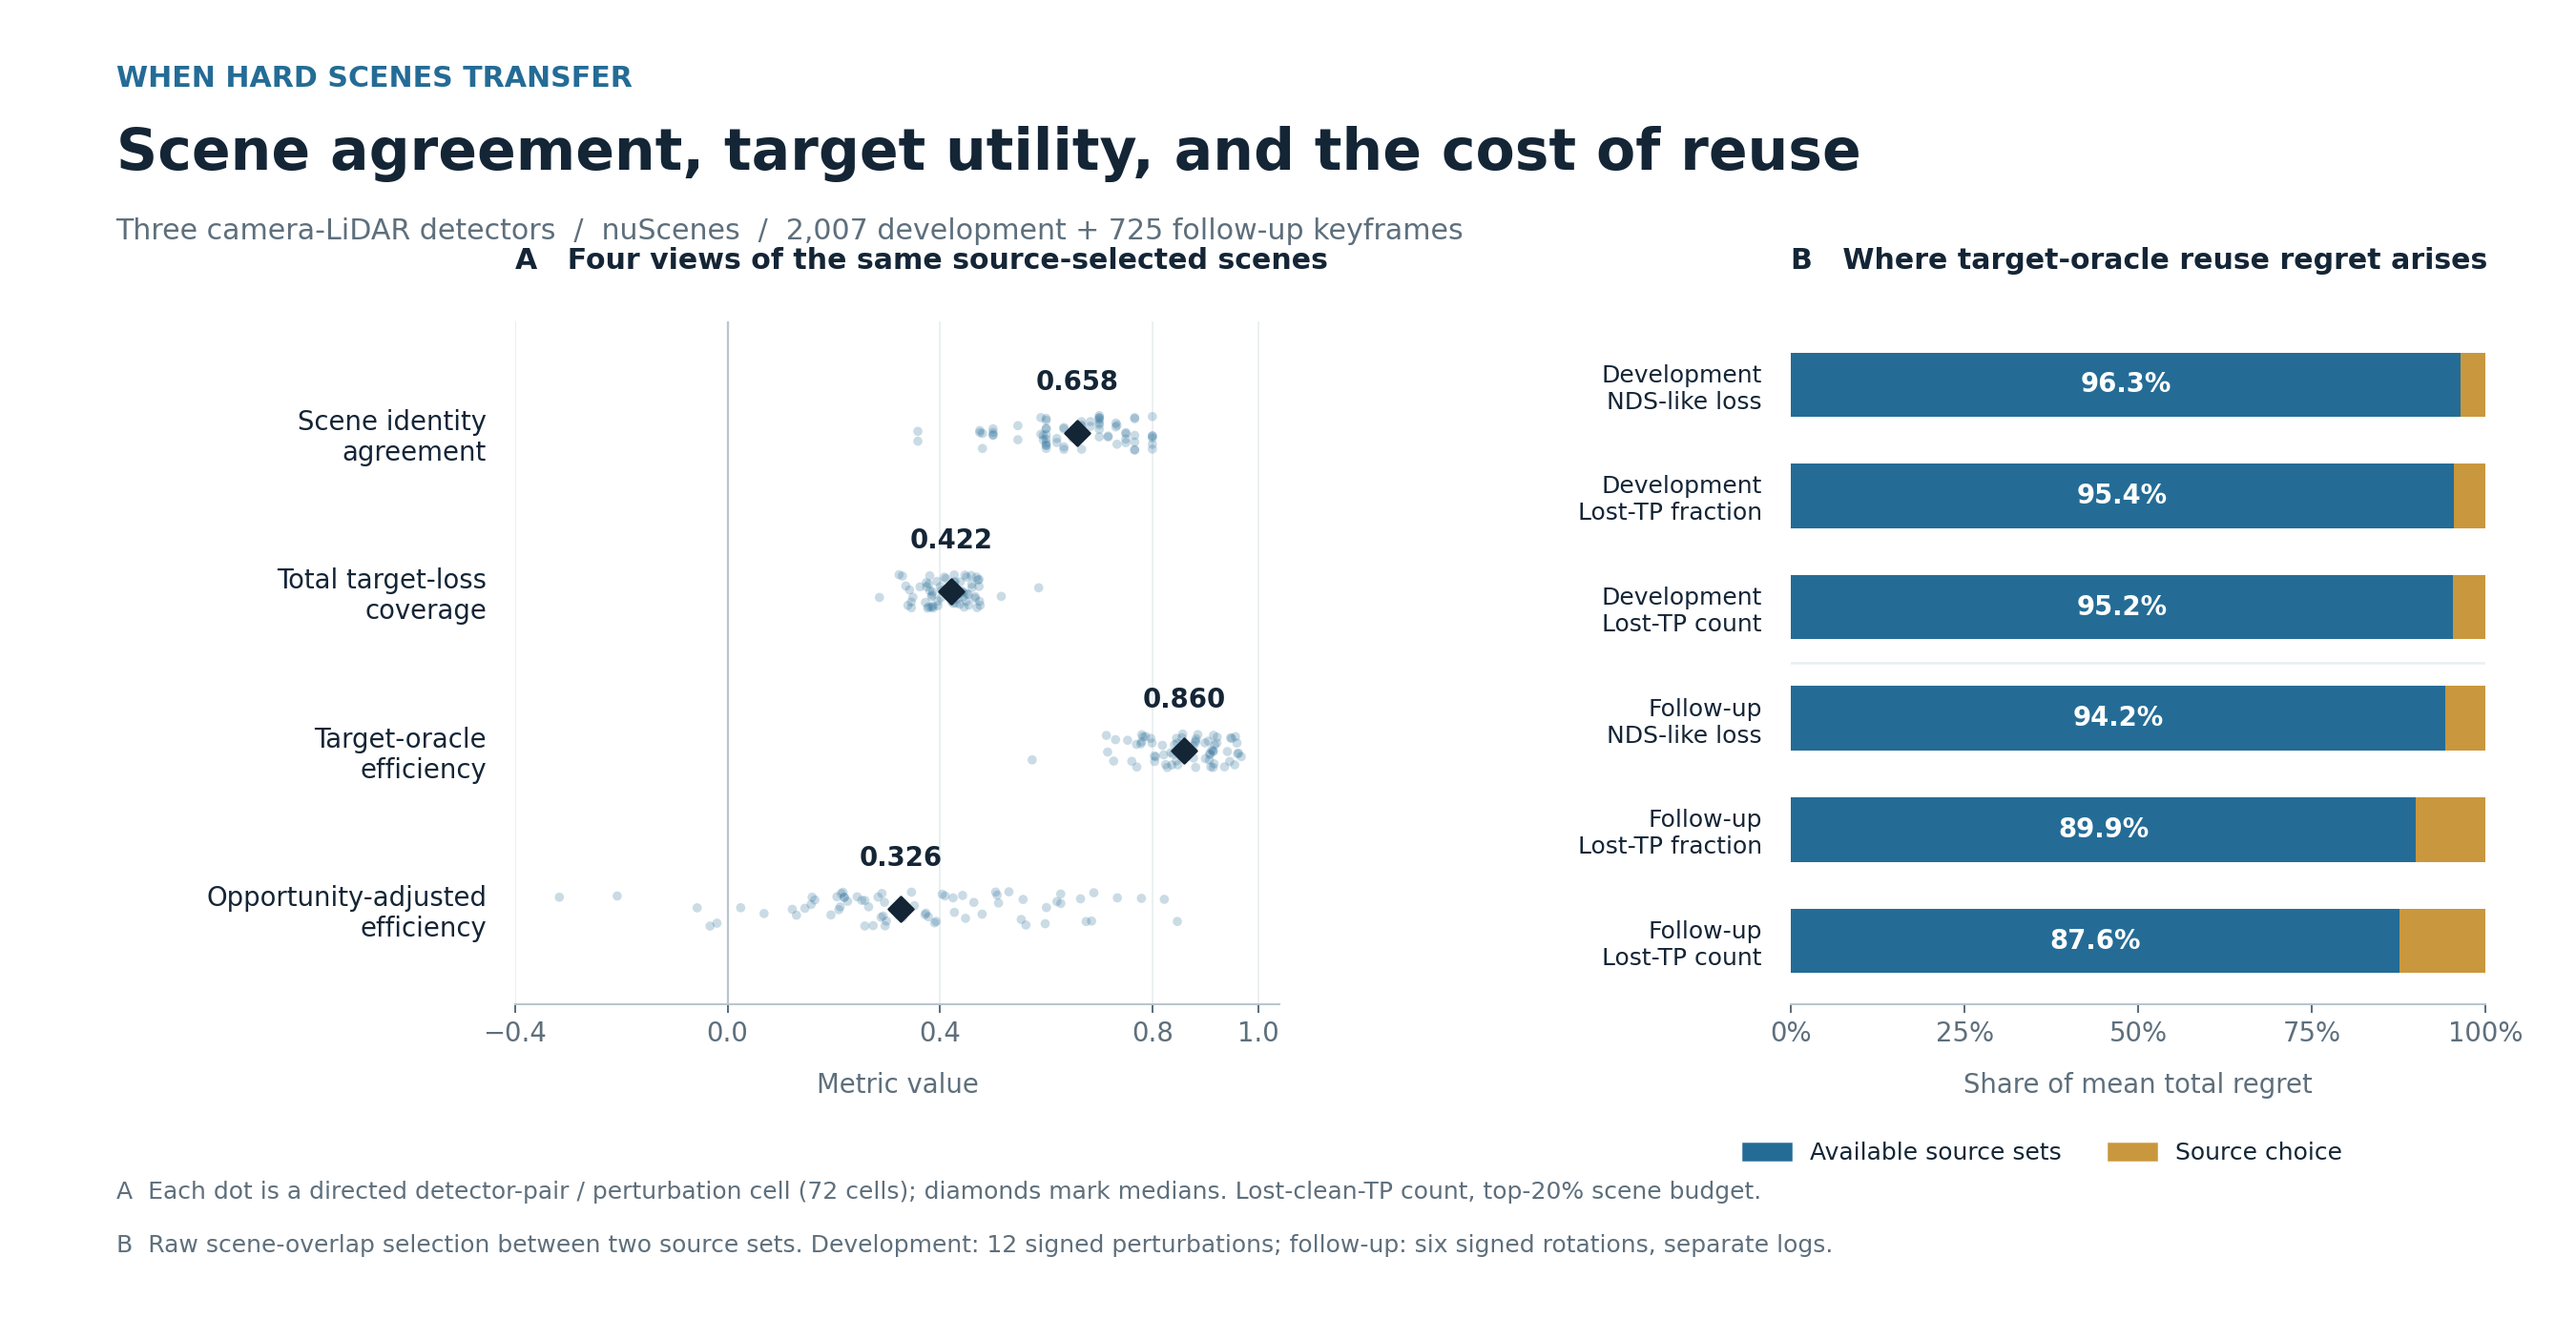
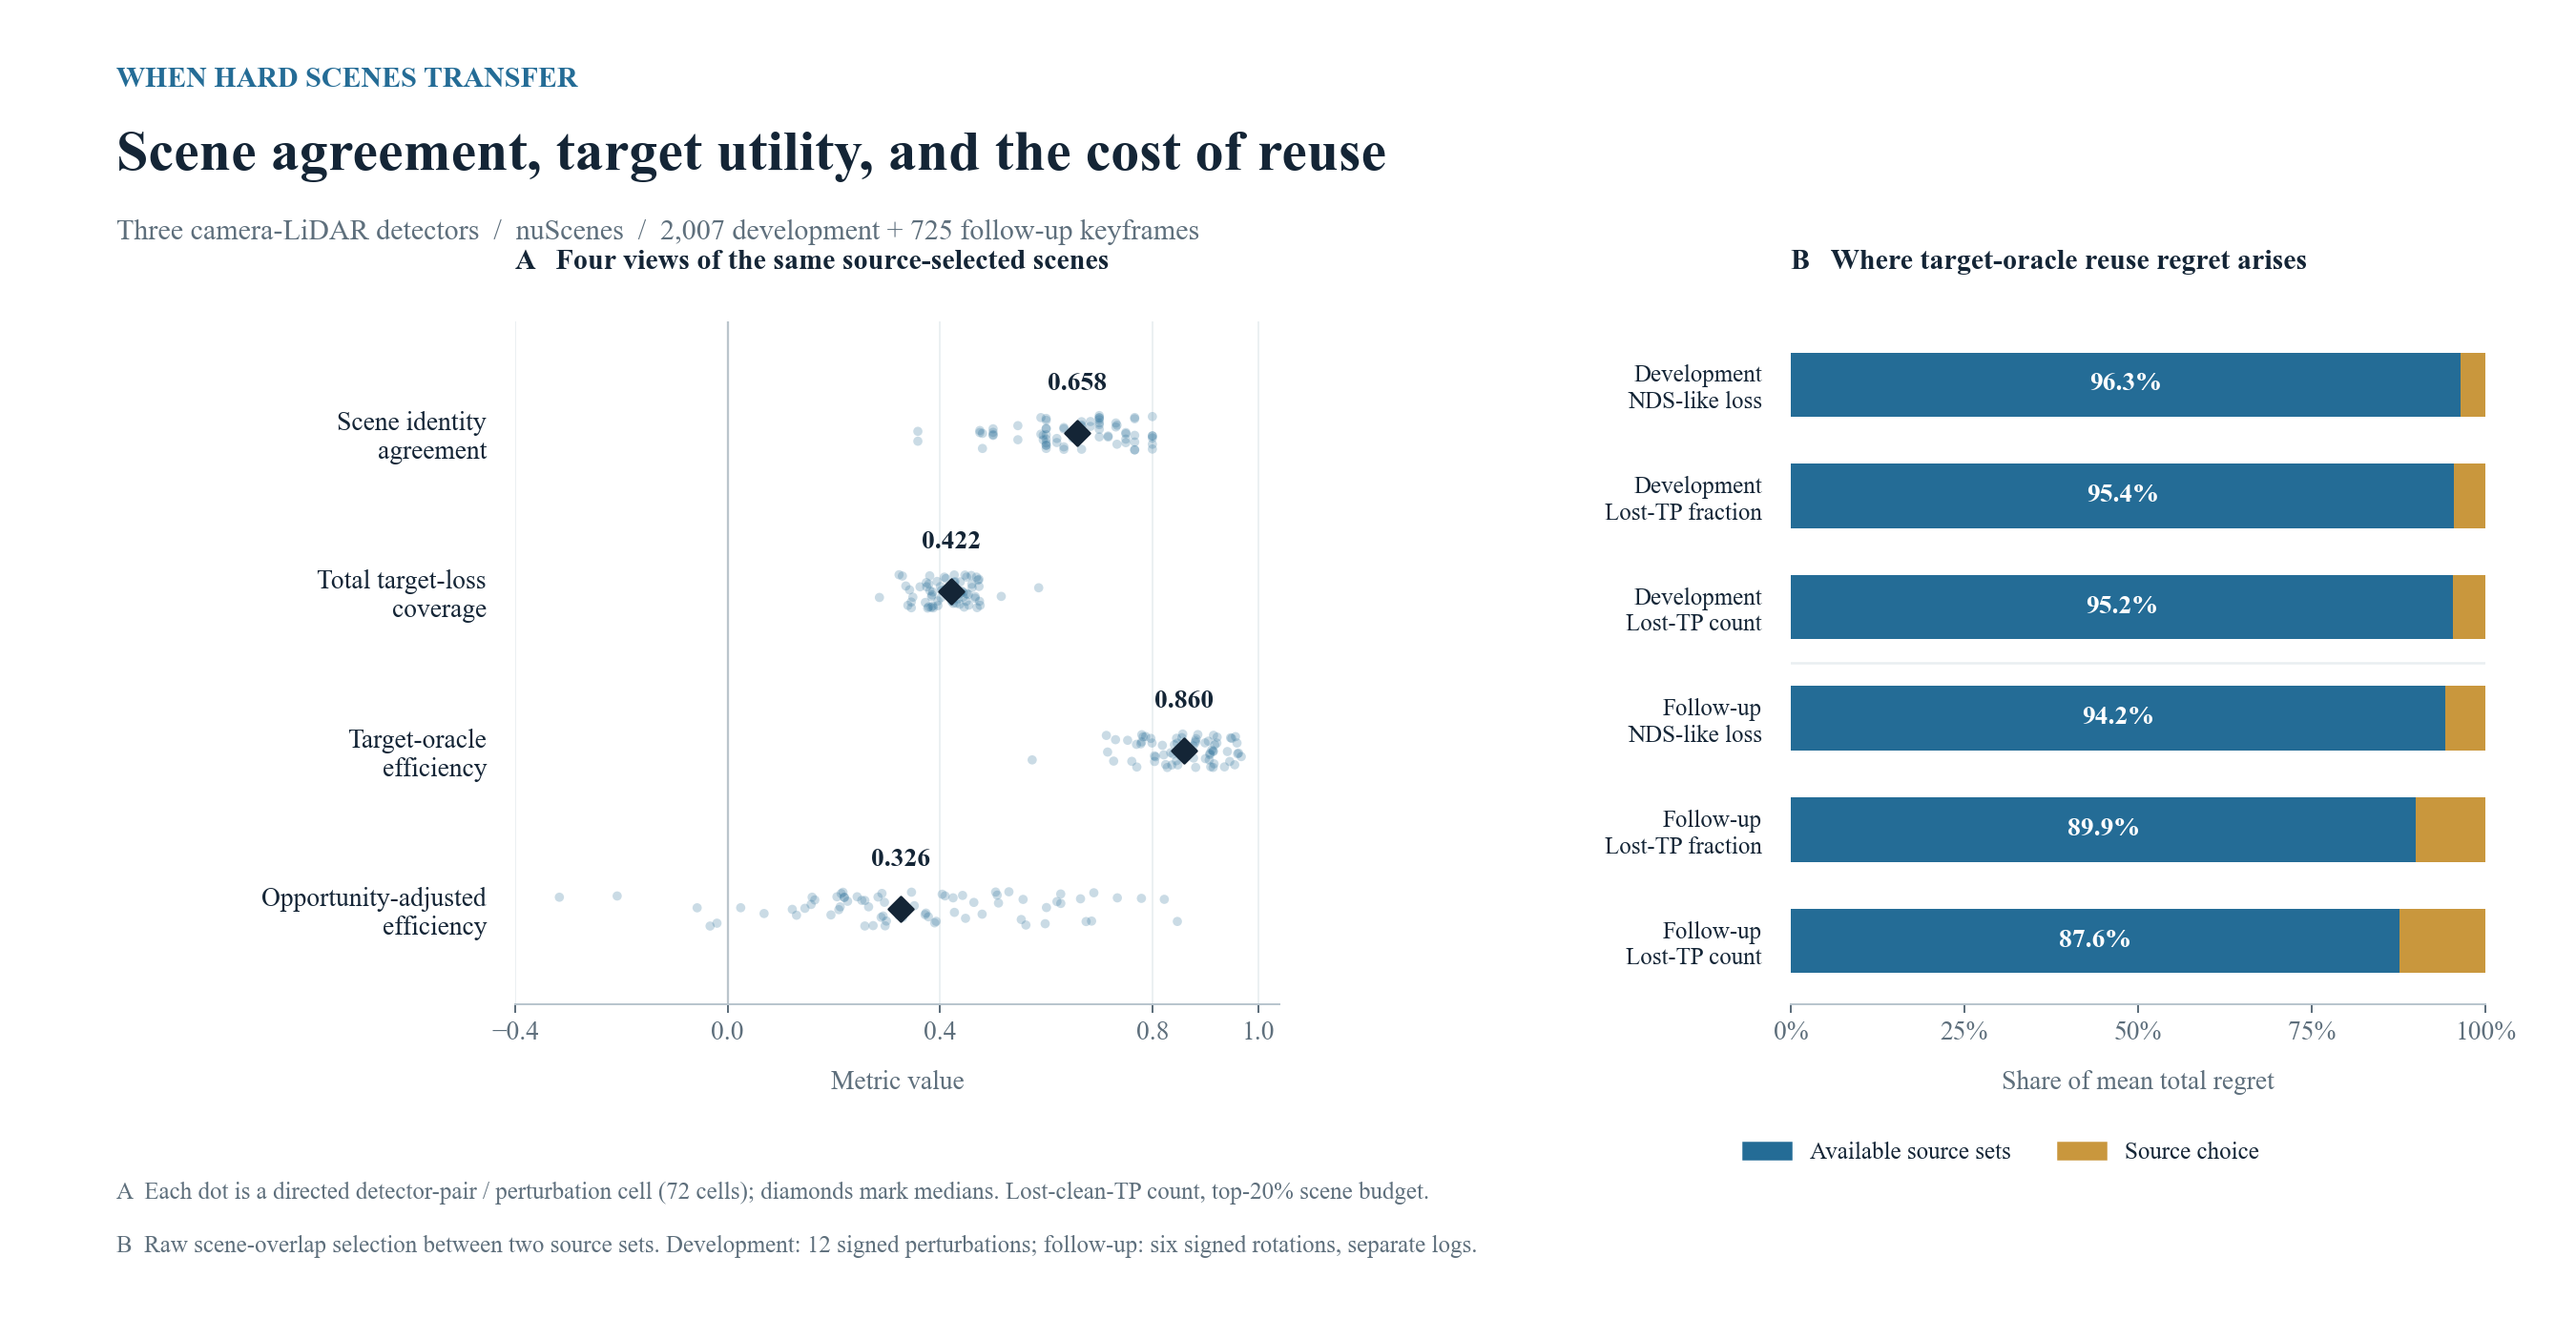
Unify profile figure typography

diff --git a/assets/source/README.md b/assets/source/README.md
@@ -1,0 +1,12 @@
+# Banner source
+
+`research.svg` is the editable banner, with Times New Roman lettering.
+The published SVG uses vector outlines; the PNG is exported at twice the source
+resolution (2560 × 720).
+
+The [figure renderer](https://github.com/JasonGao1010/JasonGao1010.github.io/blob/main/scripts/render_figures.py)
+exports both formats using Times New Roman and Chromium. From this repository:
+
+```sh
+python /path/to/render_figures.py assets/source/research.svg assets/research.svg --png assets/research.png
+```
